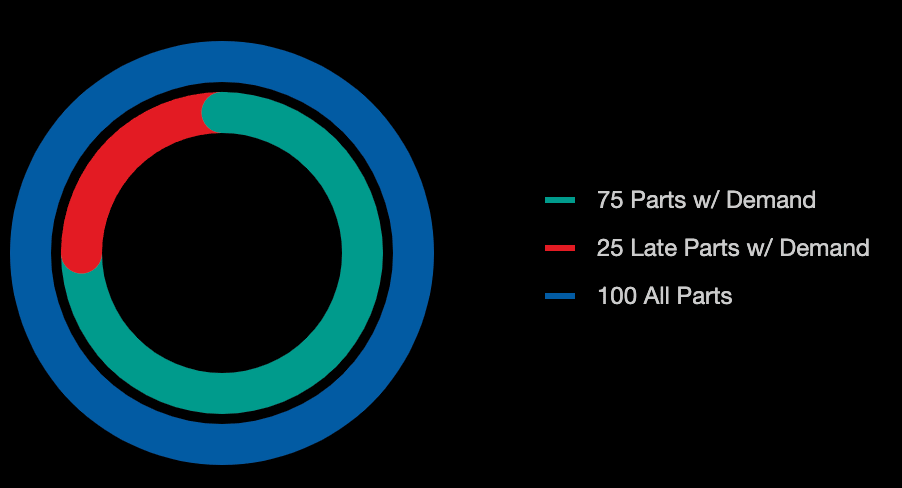
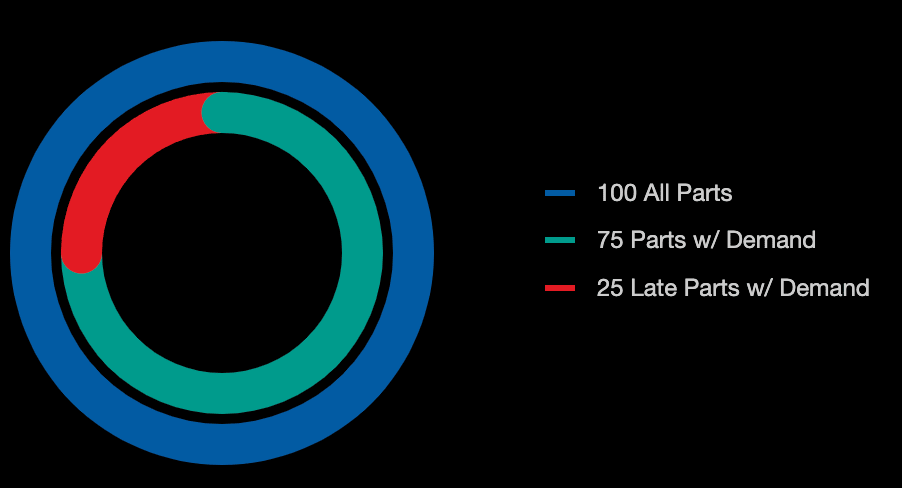
2 binaries uploaded

Changed region(s): [[0.5898, 0.5533, 0.9623, 0.6455], [0.5898, 0.4611, 0.9623, 0.5225], [0.5898, 0.3689, 0.9002, 0.4303]]

diff --git a/src/app/pages/demand/demand-overview/demandOverview.component.html b/src/app/pages/demand/demand-overview/demandOverview.component.html
@@ -81,16 +81,9 @@
       </div>
       <div class="part-overview card-items">
         <img
-          src="https://stackblitz.com/files/asgcs/github/bigredboots-arrow/angular-component-library-example-part-3-progress-45zjbr/master/src/assets/images/partoverview2.jpg"
+          src="https://stackblitz.com/files/asgcs/github/bigredboots-arrow/angular-component-library-example-part-3-progress-45zjbr/master/src/assets/images/donutchart.png"
           style="height:180px; width: 180px"
         />
-        <div class="legend">
-          <ul>
-            <li class="all-color">100 All Demand Sites</li>
-            <li class="demand-color">80 Sites w/ Demand</li>
-            <li class="late-color">20 Late Sites w/ Demand</li>
-          </ul>
-        </div>
       </div>
     </div>
     <div gridCell class="card card-body">
